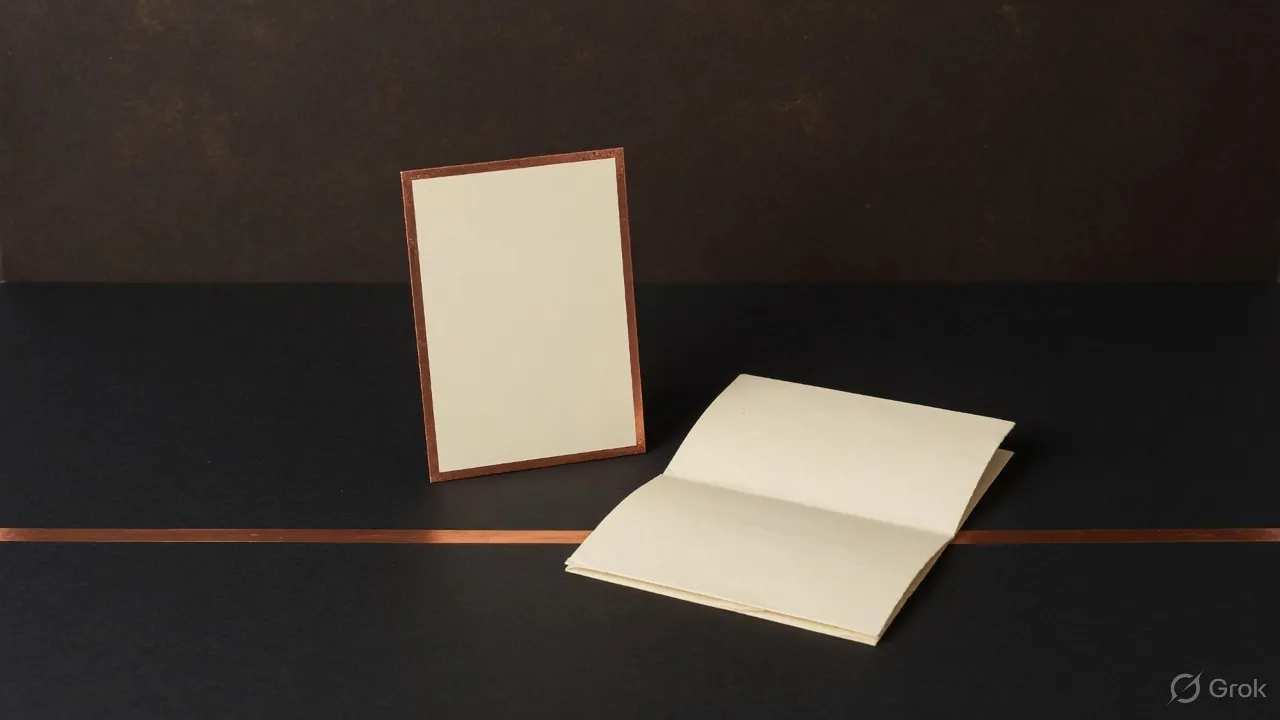
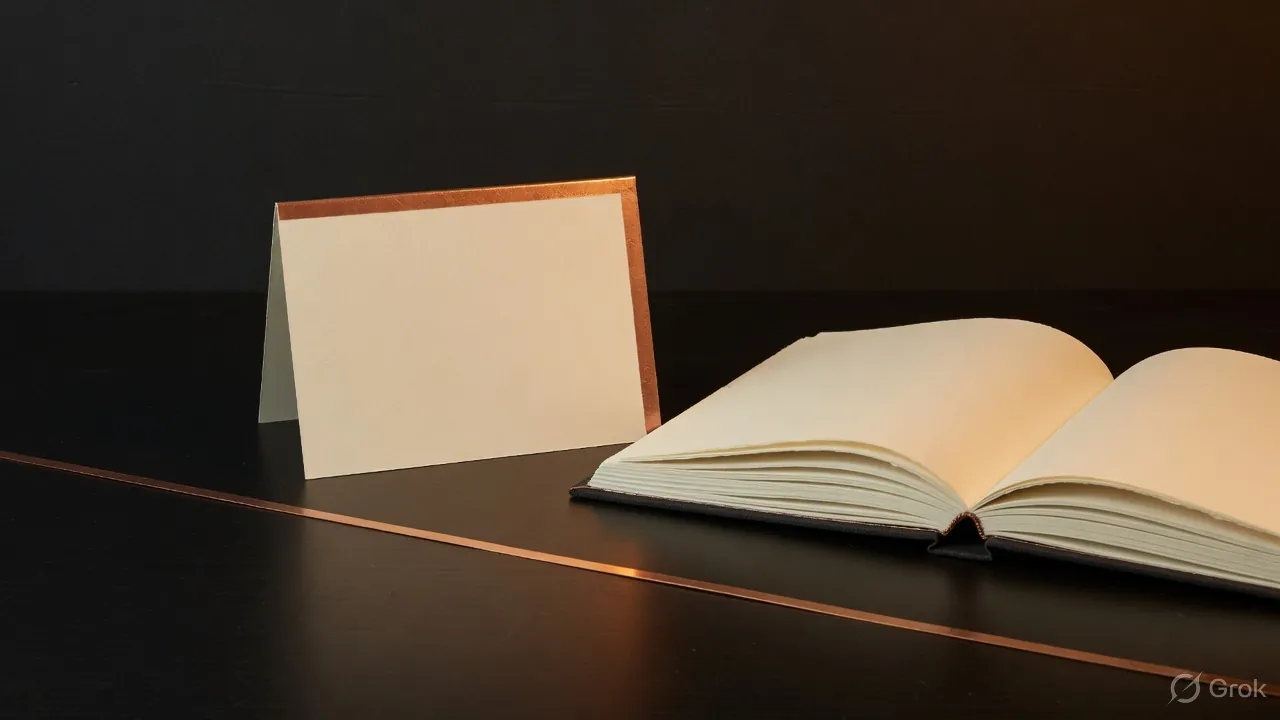
agent-fleet: match the plates to the warm ink interface
Use one seal, one desk, and one still life in the chat, beside assistant replies, and on the hub card.

diff --git a/docs/index.html b/docs/index.html
@@ -81,6 +81,15 @@ h2 span {
   padding: 16px 16px 14px; display: flex; flex-direction: column; gap: 8px;
   min-height: 168px; color: var(--text);
 }
+.card-plate {
+  width: calc(100% + 32px);
+  height: 112px;
+  object-fit: cover;
+  object-position: center;
+  margin: -16px -16px 6px;
+  border-bottom: 1px solid var(--line);
+  background: var(--bg);
+}
 a.card:hover { border-color: var(--accent); text-decoration: none; }
 .card-top { display: flex; align-items: baseline; gap: 10px; }
 .index {
@@ -169,6 +178,7 @@ footer {
   <p class="section-sub">Open the hosted page, or serve the folder on this machine. Pick a model. The first download is about 400 MB to 1.1 GB from the Hugging Face CDN. After that the browser holds the weights.</p>
   <div class="grid">
     <a class="card span-2" href="https://anubhavg-icpl.github.io/agent-fleet/chat/">
+      <img class="card-plate" src="assets/plate.webp" alt="" width="1200" height="675" />
       <div class="card-top">
         <span class="index">01</span>
         <span class="card-title">Chat — Anubhav Gain</span>

diff --git a/spaces/agent-hub/index.html b/spaces/agent-hub/index.html
@@ -81,6 +81,15 @@ h2 span {
   padding: 16px 16px 14px; display: flex; flex-direction: column; gap: 8px;
   min-height: 168px; color: var(--text);
 }
+.card-plate {
+  width: calc(100% + 32px);
+  height: 112px;
+  object-fit: cover;
+  object-position: center;
+  margin: -16px -16px 6px;
+  border-bottom: 1px solid var(--line);
+  background: var(--bg);
+}
 a.card:hover { border-color: var(--accent); text-decoration: none; }
 .card-top { display: flex; align-items: baseline; gap: 10px; }
 .index {
@@ -169,6 +178,7 @@ footer {
   <p class="section-sub">Open the hosted page, or serve the folder on this machine. Pick a model. The first download is about 400 MB to 1.1 GB from the Hugging Face CDN. After that the browser holds the weights.</p>
   <div class="grid">
     <a class="card span-2" href="https://anubhavg-icpl.github.io/agent-fleet/chat/">
+      <img class="card-plate" src="assets/plate.webp" alt="" width="1200" height="675" />
       <div class="card-top">
         <span class="index">01</span>
         <span class="card-title">Chat — Anubhav Gain</span>

diff --git a/spaces/chat/app.js b/spaces/chat/app.js
@@ -342,7 +342,16 @@ function buildMessageEl(m, isStreaming) {
 
   const avatar = document.createElement("div");
   avatar.className = "msg-avatar";
-  avatar.textContent = m.role === "user" ? "You" : "AG";
+  if (m.role === "user") {
+    avatar.textContent = "You";
+  } else {
+    const mark = document.createElement("img");
+    mark.src = "mark.webp";
+    mark.alt = "AG";
+    mark.width = 32;
+    mark.height = 32;
+    avatar.appendChild(mark);
+  }
 
   const body = document.createElement("div");
   body.className = "msg-body";

diff --git a/spaces/chat/style.css b/spaces/chat/style.css
@@ -406,8 +406,16 @@ button { cursor: pointer; }
   letter-spacing: 0;
 }
 .msg.assistant .msg-avatar {
-  background: var(--accent);
-  color: var(--accent-ink);
+  background: var(--bg);
+  border: 1px solid var(--accent);
+  overflow: hidden;
+  padding: 0;
+}
+.msg.assistant .msg-avatar img {
+  width: 100%;
+  height: 100%;
+  display: block;
+  object-fit: cover;
 }
 
 .msg-body { min-width: 0; flex: 1; padding-top: 4px; }

diff --git a/docs/log.md b/docs/log.md
@@ -2,6 +2,7 @@
 
 ## 2026-10-04
 
+* **Update**: Replaced the plates with art in the same warm ink and copper as the interface, and used that art on the hub card and the assistant mark.
 * **Update**: Placed generated WebP plates in the chat and the hub, and refreshed the README pictures.
 * **Update**: Published the hub and the browser chat with GitHub Pages.
 * **Update**: Added lossless WebP pictures of the banner, chat, and hub to the README.
